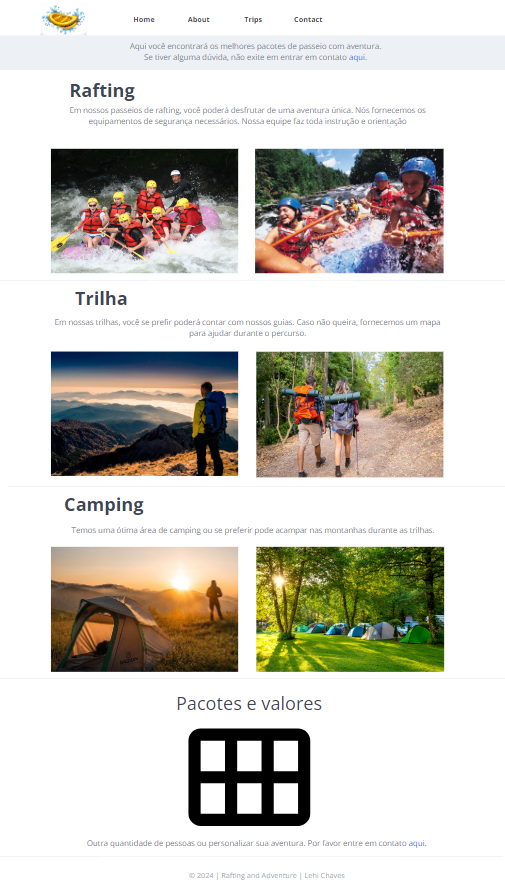
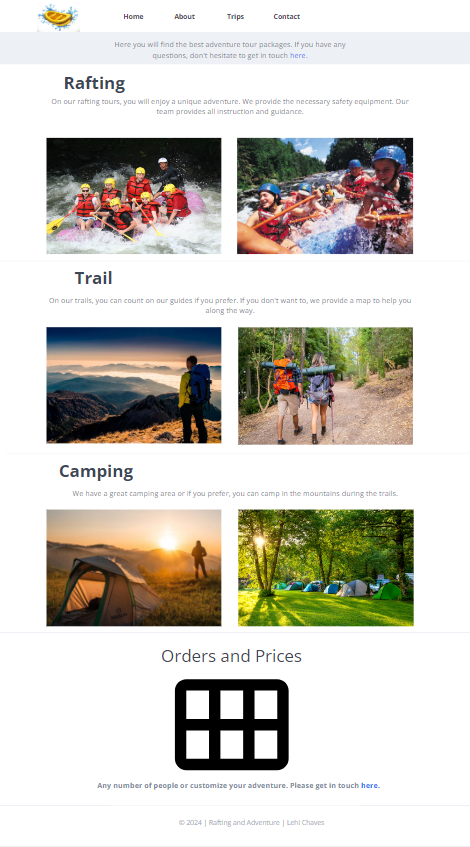
updated photos, trip page and rafting css

diff --git a/wwr/trips.html b/wwr/trips.html
@@ -25,33 +25,33 @@
     <main>
 
         <section class="ptrip">
-            <p>Aqui você encontrará os melhores pacotes de passeio com aventura. Se tiver alguma dúvida, não exite em entrar em contato <a href="contact.html">aqui.</a></p>
+            <p>Here you will find the best adventure tour packages. If you have any questions, don't hesitate to get in touch <a href="contact.html">here.</a></p>
         </section>
 
         <section class="rafting">
             <h2>Rafting</h2>
-            <p>Em nossos passeios de rafting, você poderá desfrutar de uma aventura única. 
-                Nós fornecemos os equipamentos de segurança necessários. 
-                Nossa equipe faz toda instrução e orientação.  </p>
+            <p>On our rafting tours, you will enjoy a unique adventure.
+                We provide the necessary safety equipment.
+                Our team provides all instruction and guidance.  </p>
             <div class="raftingtrip">
                 <img class="rafting11" src="images/rafting1.1.png" alt="rafting 1.1">
                 <img class="rafting12" src="images/rafting1.2.png" alt="rafting 1.2">
             </div>
         </section>
 
-        <section class="trilha">
-            <h2>Trilha</h2>
-            <p>Em nossas trilhas, você se prefir poderá contar com nossos guias. 
-                Caso não queira, fornecemos um mapa para ajudar durante o percurso.</p>
+        <section class="trail">
+            <h2>Trail</h2>
+            <p>On our trails, you can count on our guides if you prefer.
+                If you don't want to, we provide a map to help you along the way.</p>
             <div>
-                <img class="trilha1" src="images/trilha1.png" alt="rafting 1.1">
-                <img class="trilha2" src="images/trilha.2.png" alt="rafting 1.2">
+                <img class="trail1" src="images/trail1.png" alt="trail 1.1">
+                <img class="trail2" src="images/trail2.png" alt="trail 1.2">
             </div>
         </section>
 
         <section class="camping">
             <h2>Camping</h2>
-            <p>Temos uma ótima área de camping ou se preferir pode acampar nas montanhas durante as trilhas. </p>
+            <p>We have a great camping area or if you prefer, you can camp in the mountains during the trails. </p>
             <div>
                 <img class="camping1" src="images/camping1.png" alt="rafting 1.1">
                 <img class="camping2" src="images/camping2.png" alt="rafting 1.2">
@@ -60,75 +60,66 @@
 
         <section class="table">
             <table class="table1">
-                <h2>Pacotes e valores</h2>
+                <h2>Orders and Prices</h2>
                 <tr>
-                    <th scope="col">Pacotes</th>
-                    <th scope="col">Quantidade de pessoas</th>
-                    <th scope="col">Preço</th>
+                    <th scope="col">Order</th>
+                    <th scope="col">Amount of people</th>
+                    <th scope="col">Price</th>
                 </tr>
                 <tr>
-                    <th scope="row">Rafting</th>
+                    <th rowspan="2">Rafting</th>
                     <td>6 pessoas</td>
                     <td>U$ 99.90</td>
                 </tr>
                 <tr>
-                    <th scope="row">Rafting</th>
                     <td>8 pessoas</td>
                     <td>U$ 129.90</td>
                 </tr>
                 <tr>
-                    <th scope="row">Trilha</th>
+                    <th rowspan="2">Trail</th>
                     <td>6 - 10 pessoas</td>
                     <td>U$ 89.90</td>
                 </tr>
                 <tr>
-                    <th scope="row">Trilha</th>
                     <td>11 - 20 pessoas</td>
                     <td>U$ 129.90</td>
                 </tr>
                 <tr>
-                    <th scope="row">Trilha com guia</th>
+                    <th rowspan="2">Guided trail</th>
                     <td>6 - 10 pessoas</td>
                     <td>U$ 199.90</td>
                 </tr>
                 <tr>
-                    <th scope="row">Trilha com guia</th>
                     <td>11 - 20 pessoas</td>
                     <td>U$ 249.90</td>
                 </tr>
                 <tr>
-                    <th scope="row">Camping</th>
+                    <th rowspan="3">Camping</th>
                     <td>4 pessoas</td>
                     <td>U$ 49.90</td>
                 </tr>
                 <tr>
-                    <th scope="row">Camping</th>
                     <td>6 pessoas</td>
                     <td>U$ 69.90</td>
                 </tr>
                 <tr>
-                    <th scope="row">Camping</th>
                     <td>8 pessoas</td>
                     <td>U$ 89.90</td>
                 </tr>
-                  
-                
+                                  
                 <tfoot>
                   <tr>
-                    <th scope="row" colspan="3">Outra quantidade de pessoas ou personalizar sua aventura. Por favor entre em contato <a href="contact.html">aqui.</a></th>
-                    
-                  </tr>
+                    <th colspan="3">Any number of people or customize your adventure. Please get in touch <a href="contact.html">here.</a></th>
+                   </tr>
                 </tfoot>
               </table>
+
         </section>
-
-
-
-
 
     </main>
 
     <footer>
+        <a href="images/wireframe.trips.png">wireframe here</a>
         <p>© 2024 | Rafting and Adventure | Lehi Chaves</p>
         <nav class="sociallinks">
             <a href="https://www.facebook.com/">

diff --git a/wwr/styles/rafting.css b/wwr/styles/rafting.css
@@ -226,7 +226,7 @@ button:hover {
     height: 250px;
 }
 
-.trilha {
+.trail {
     margin-top: 2px;
     background-color: var(--nav-hover-link-color);
     width: auto;
@@ -236,12 +236,12 @@ button:hover {
     text-align: center;
 }
 
-.trilha1 {
+.trail1 {
     width: 350px;
     height: 250px;
 } 
 
-.trilha2 {
+.trail2 {
     width: 350px;
     height: 250px;
 }
@@ -274,10 +274,10 @@ button:hover {
     border-radius: 10px;
     border-style: double;
     text-align: center;
-    
 }
 
 table, th, td {
     border: 1px solid black;
+    margin: auto;
 }
 
